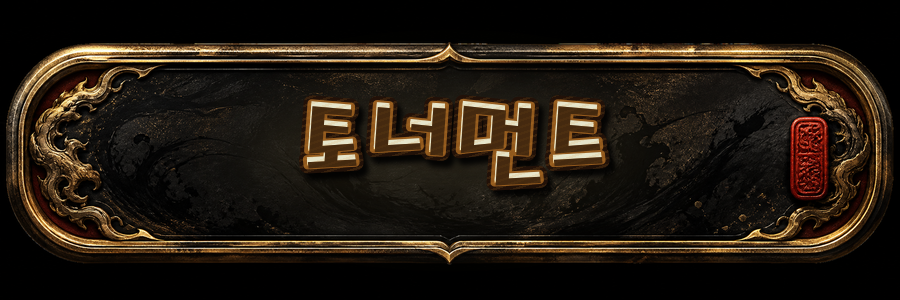
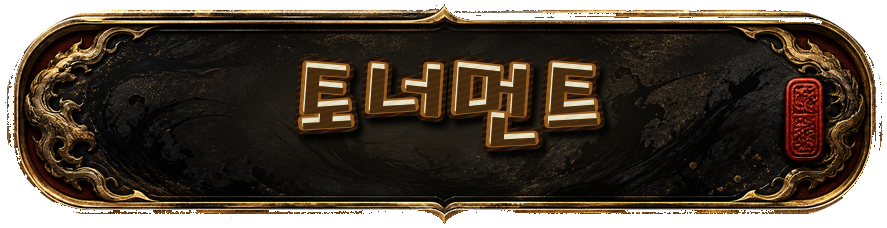
Trim transparent title button asset

diff --git a/src/styles.css b/src/styles.css
@@ -228,8 +228,8 @@ h2 {
 
 .title-image-button {
   display: block;
-  width: clamp(280px, 34vw, 430px);
-  max-width: 86vw;
+  width: clamp(220px, 27vw, 330px);
+  max-width: 76vw;
   border: 0;
   background: transparent;
   padding: 0;
@@ -1073,7 +1073,7 @@ h2 {
   }
 
   .title-image-button {
-    width: min(360px, 84vw);
+    width: min(300px, 76vw);
   }
 
   .select-heading,

diff --git a/WORKLOG.md b/WORKLOG.md
@@ -67,6 +67,11 @@
 - 정확한 한글 표기를 위해 `토너먼트` 텍스트를 이미지로 합성한 `public/assets/ui/title-tournament-button.png` 버튼 에셋을 추가했습니다.
 - 타이틀 화면의 CTA를 시스템 폰트 텍스트 버튼이 아닌 이미지 버튼으로 교체했습니다.
 
+## 2026-05-19 타이틀 버튼 투명화 및 축소
+
+- `public/assets/ui/title-tournament-button.png`의 버튼 바깥 검은 캔버스를 투명 알파로 정리했습니다.
+- 버튼 에셋의 투명 여백을 줄이고 타이틀 화면에서 표시되는 크기를 낮췄습니다.
+
 ## 최근 Git 히스토리
 
 - `de9c8b3` Add awakened character reveal roster